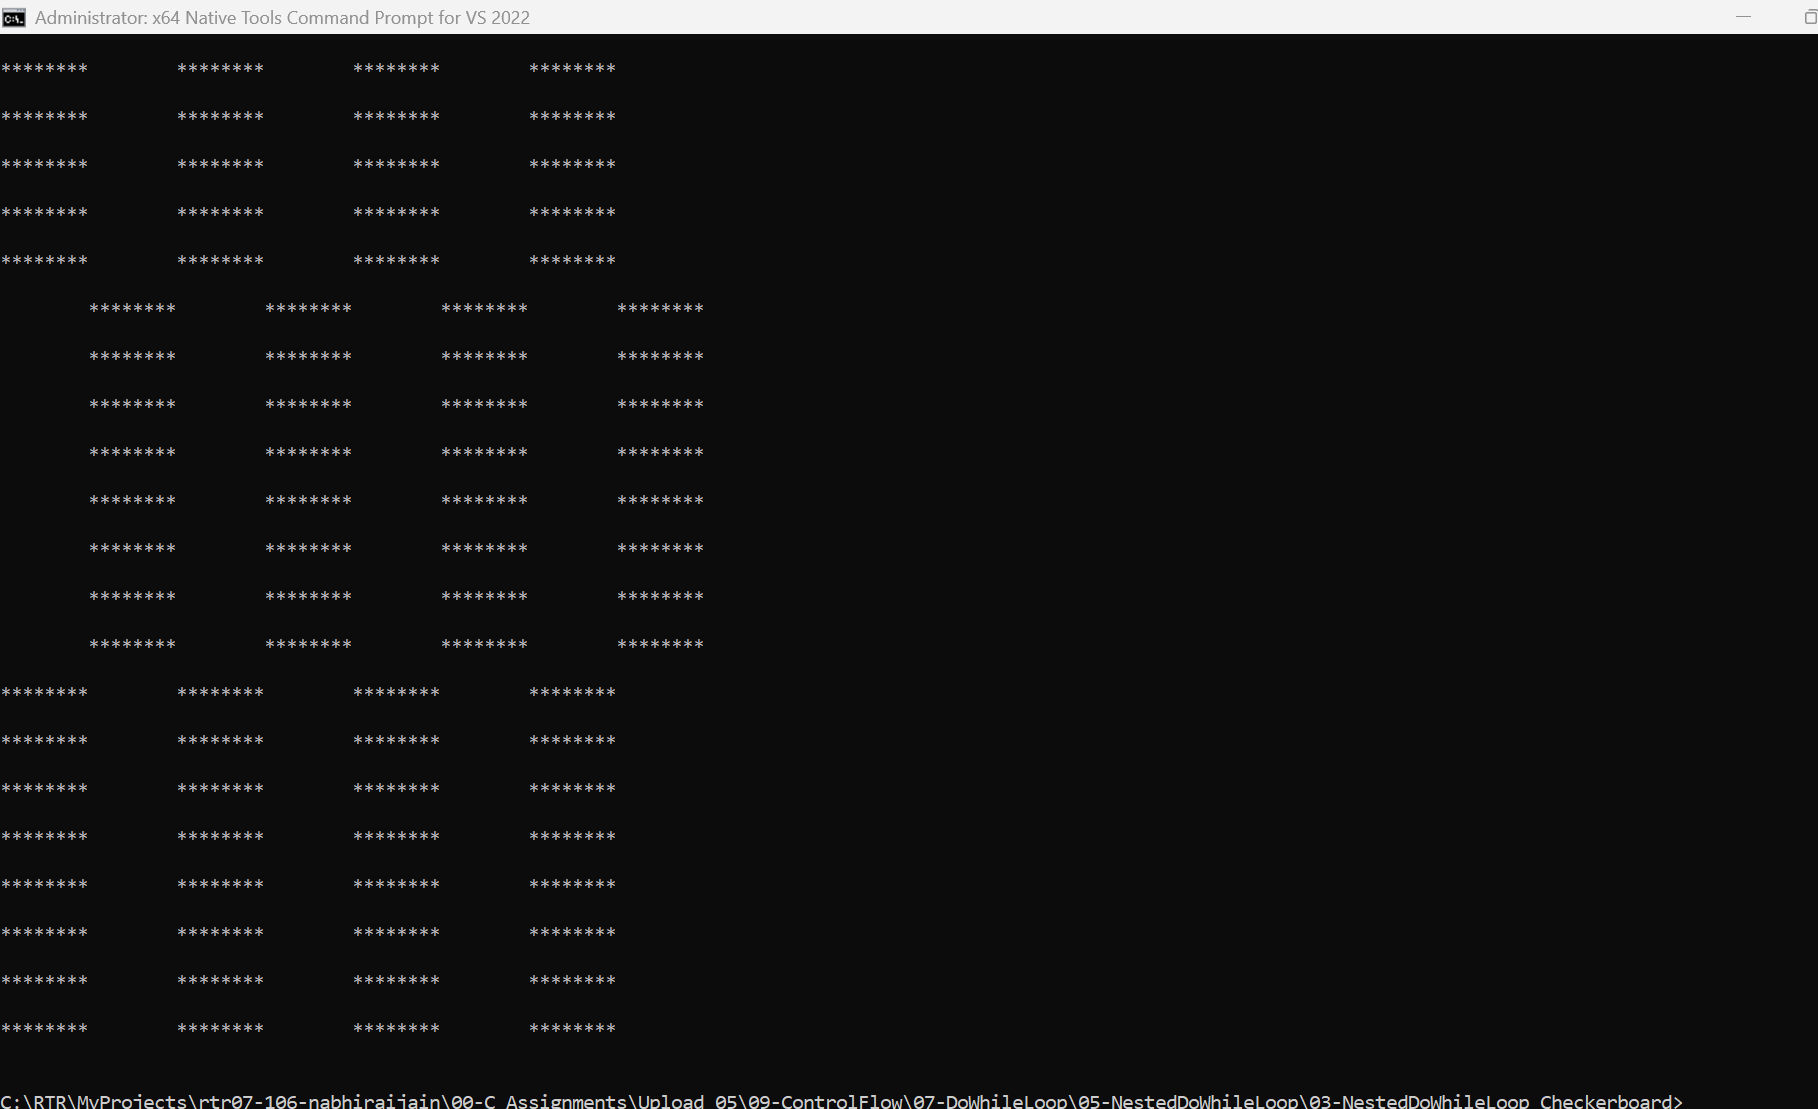
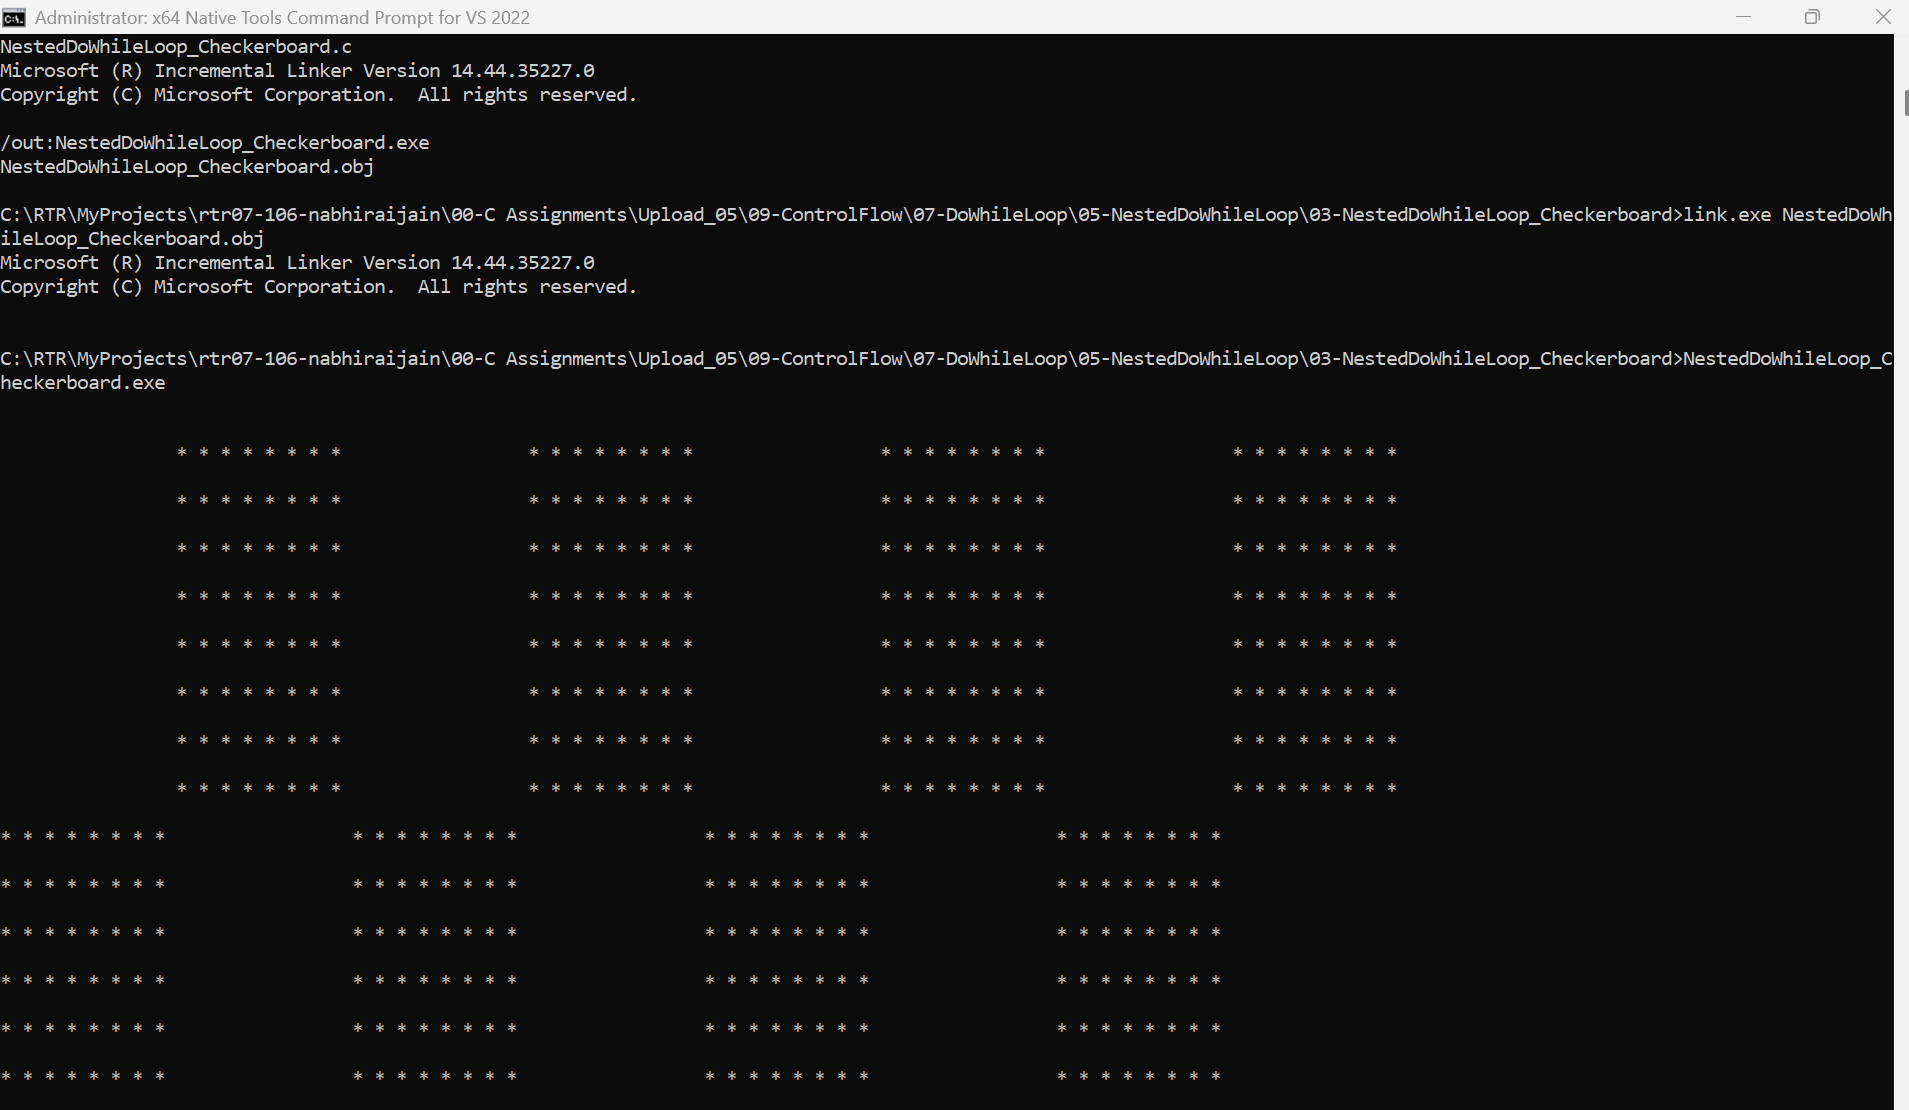
Nesterd dowhile withcheckerboard

diff --git a/00-C Assignments/Upload_05/09-ControlFlow/07-DoWhileLoop/05-NestedDoWhileLoop/03-NestedDoWhileLoop_Checkerboard/NestedDoWhileLoop_Checkerboard.c b/00-C Assignments/Upload_05/09-ControlFlow/07-DoWhileLoop/05-NestedDoWhileLoop/03-NestedDoWhileLoop_Checkerboard/NestedDoWhileLoop_Checkerboard.c
@@ -5,7 +5,7 @@ int main(void)
 	int nrj_i, nrj_j, nrj_c;
 
 	//code
-	printf("/n/n");
+	printf("\n\n");
 
 	nrj_i = 0;
 	do 
@@ -20,9 +20,9 @@ int main(void)
 
 			nrj_c = ((nrj_i & 0x8) == 0) ^ ((nrj_j & 0x8) == 0);
 			if (nrj_c == 0)
-				printf(" ");
+				printf("  ");
 			if (nrj_c == 1)
-				printf("*");
+				printf("* ");
 
 			nrj_j++;
 		} while (nrj_j < 64);
